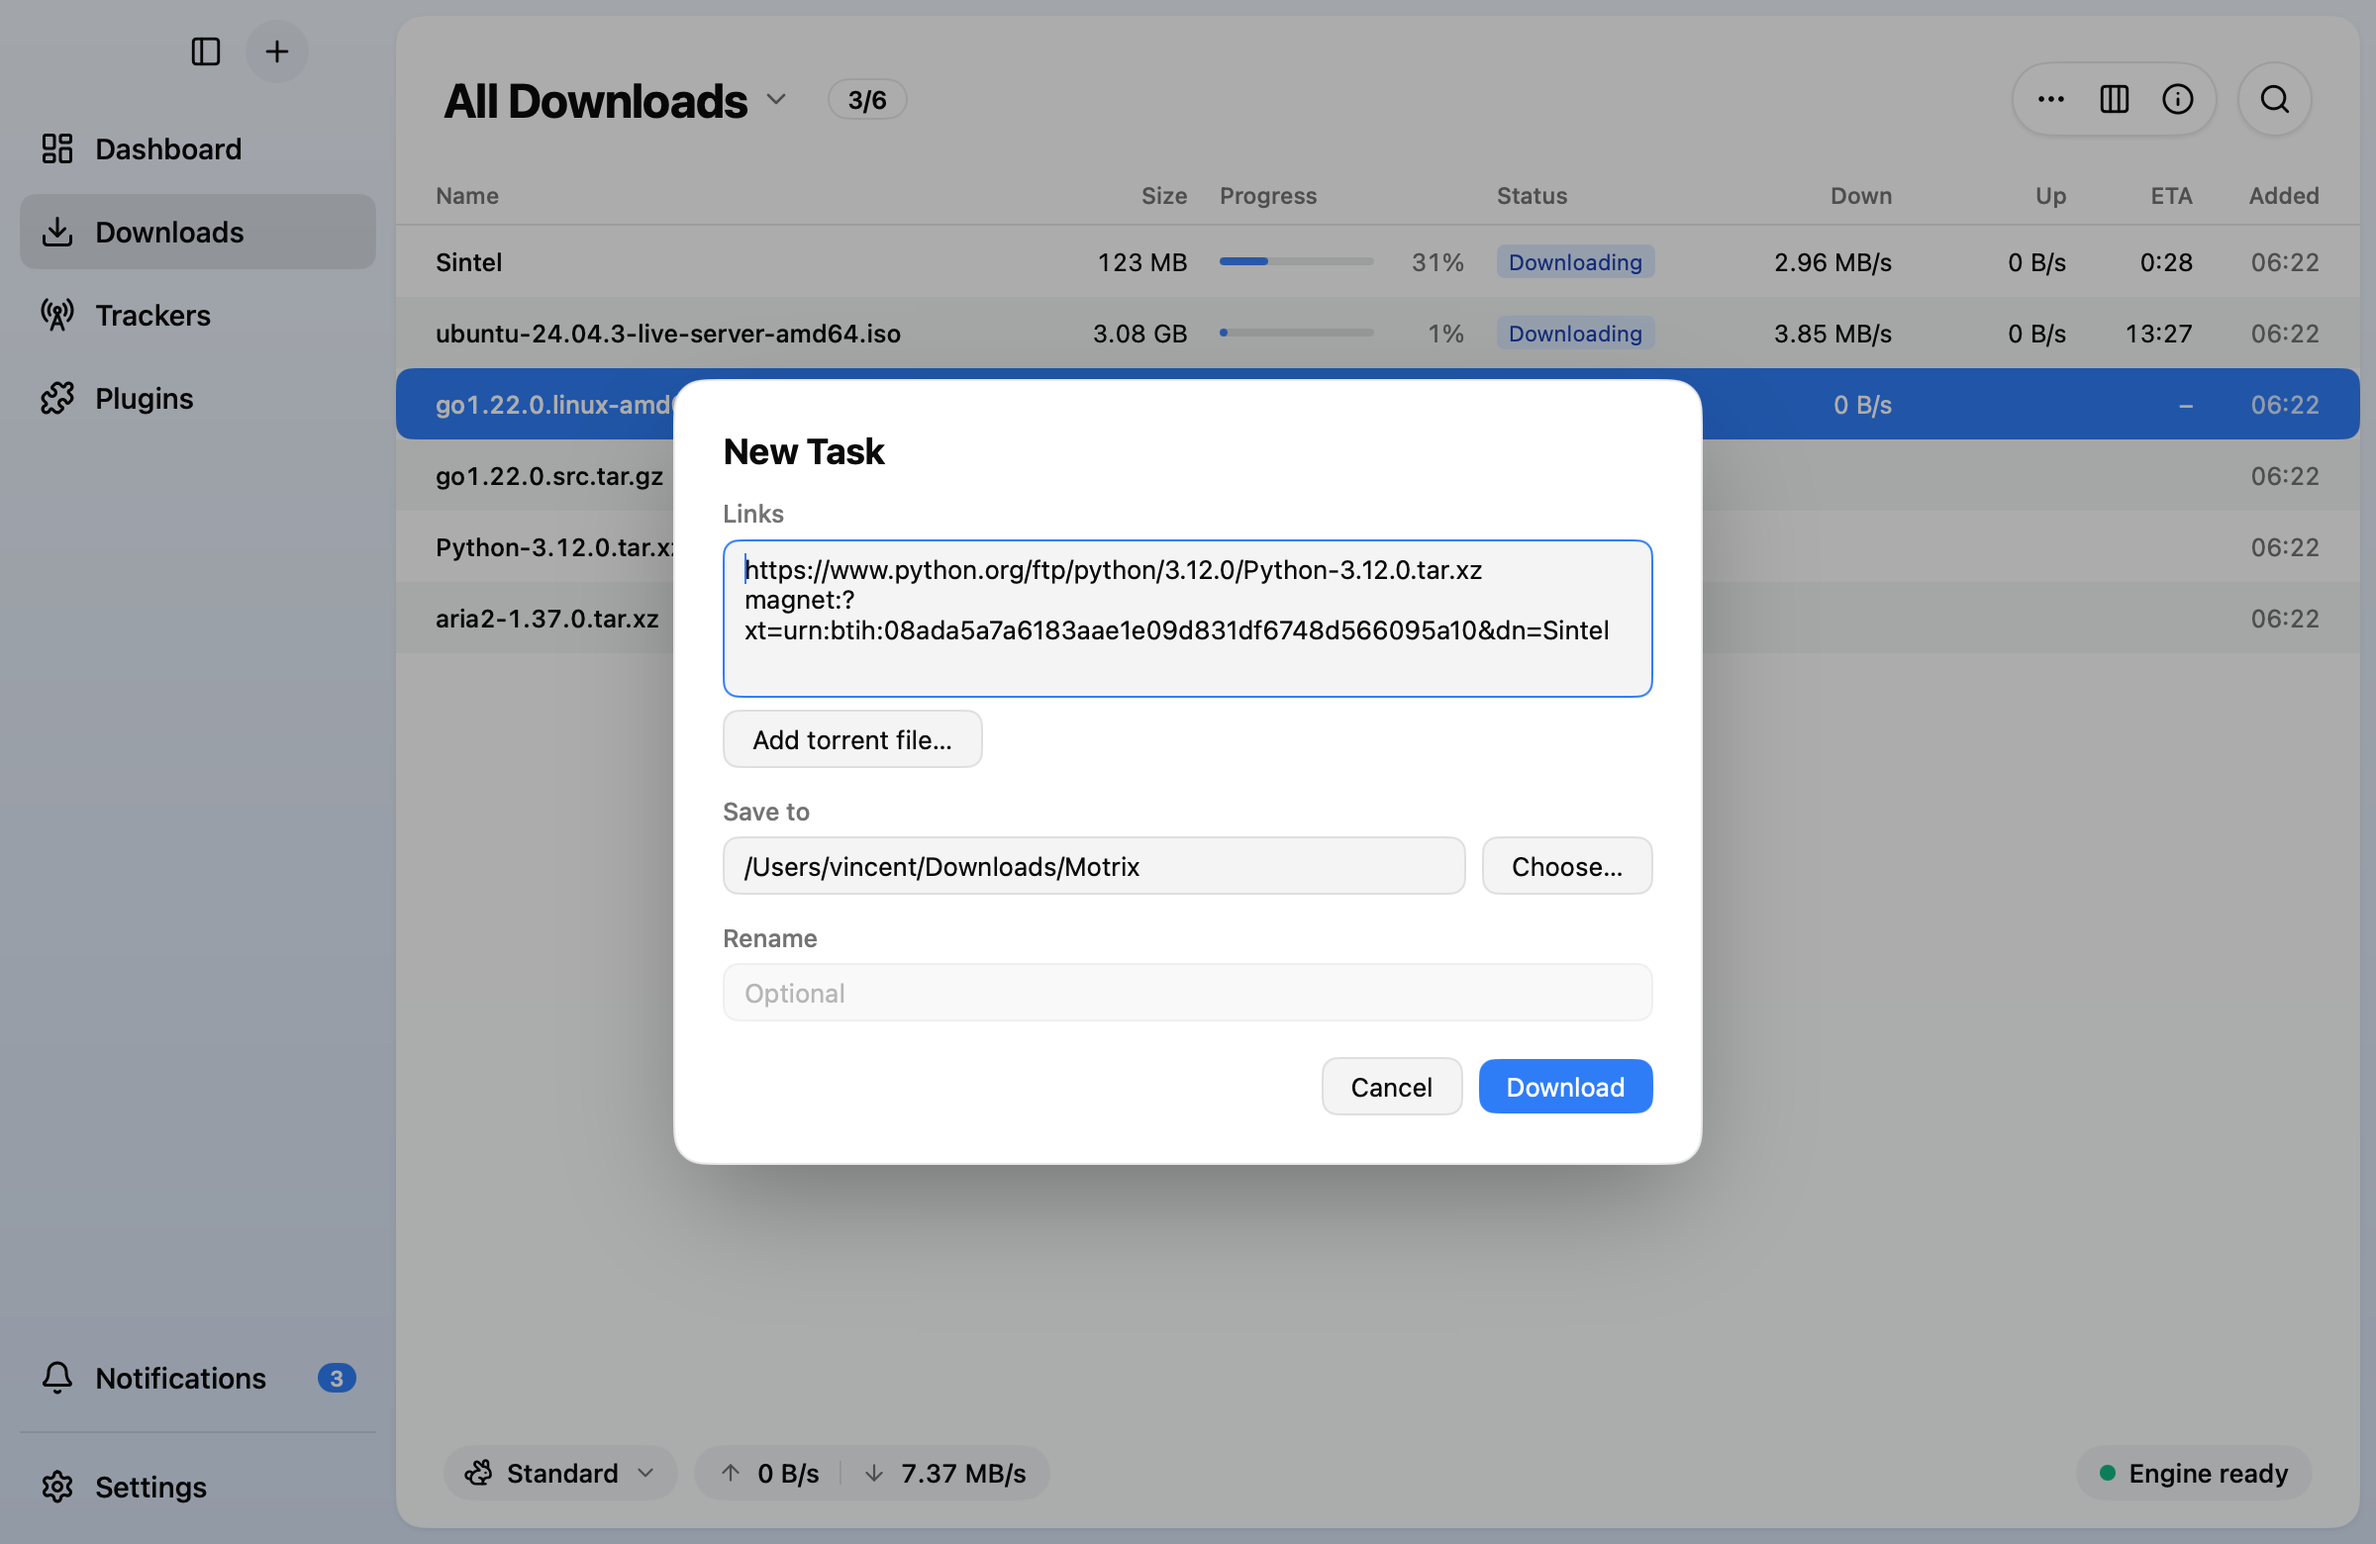
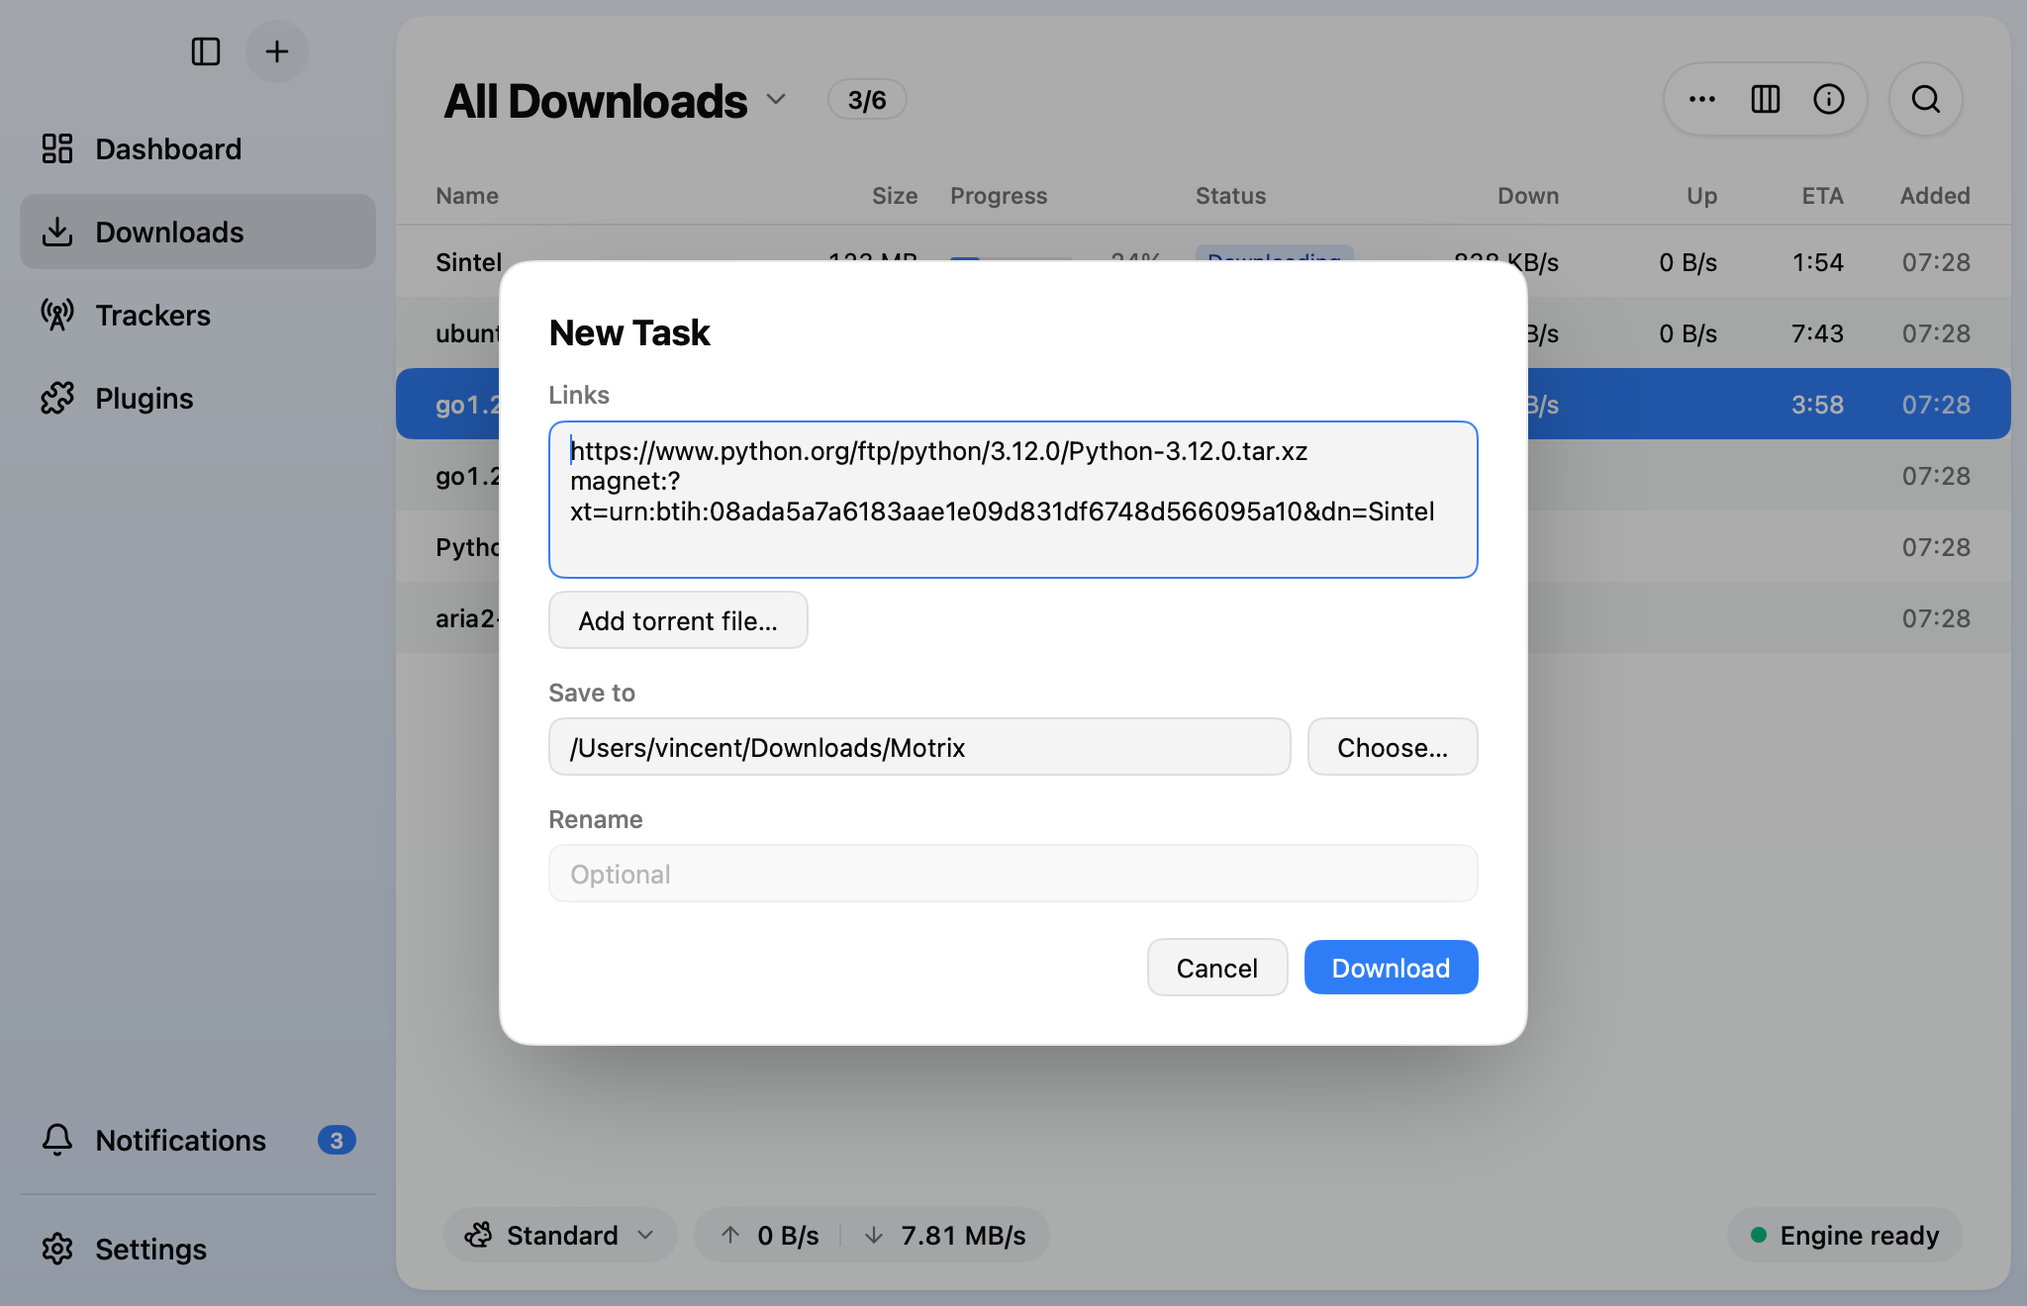
fix: open at 1024x660 and correct the About page
Open the window at the smaller default size, narrowing the columns of
the downloads list so that all of them still fit. Link the About page
to this project's own source, with Motrix and aria2 as acknowledgements.
Regenerate the screenshots at the new size.

diff --git a/settings_view.go b/settings_view.go
@@ -487,7 +487,7 @@ func (a *app) aboutSettings(c *ui.Context, p palette) {
 	value := func(s string) { ui.Text(c, s).FontSize(13).TextColor(p.muted).Selectable() }
 	ui.Column(c).Padding(20, 0).Gap(4).BorderWidth(0, 0, 1, 0).BorderColor(p.border).Children(func() {
 		ui.Text(c, "Motrix").FontSize(20).Bold()
-		ui.Text(c, T("A download manager, drawn natively.")).FontSize(13.5).TextColor(p.muted)
+		ui.Text(c, T("Motrix with a native interface in Go: no Electron, no webview.")).FontSize(13.5).TextColor(p.muted)
 	})
 	settingRow(c, p, T("Version"), "", func() {
 		// The version of mygo.json, which the build stamps into the app.
@@ -509,6 +509,10 @@ func (a *app) aboutSettings(c *ui.Context, p palette) {
 		ui.Link(c, "MyGo", "https://github.com/egoist/mygo").FontSize(13)
 	})
 	settingRow(c, p, T("Source code"), "", func() {
-		ui.Link(c, "github.com/agalwood/Motrix", "https://github.com/agalwood/Motrix").FontSize(13)
+		ui.Link(c, "github.com/missuo/motrix-mygo", "https://github.com/missuo/motrix-mygo").FontSize(13)
+	})
+	settingRow(c, p, T("Acknowledgements"), T("The design, the settings and the aria2 build are Motrix's."), func() {
+		ui.Link(c, "Motrix", "https://github.com/agalwood/Motrix").FontSize(13)
+		ui.Link(c, "aria2", "https://github.com/motrixapp/aria2").FontSize(13)
 	})
 }

diff --git a/i18n.go b/i18n.go
@@ -34,11 +34,13 @@ func T(s string) string {
 var zhCN = map[string]string{
 	"0 = unlimited.": "0 表示不限速。",
 	"0 = unlimited. Applies to new tasks and when seeding is restarted.": "0 表示不限，适用于新任务和重新开始做种的任务。",
-	"24-hour format (HH:mm)":              "24 小时制（HH:mm）",
-	"A download manager, drawn natively.": "原生绘制的下载管理器。",
-	"ACTIVE TASKS":                        "活动任务",
-	"ACTIVITY":                            "活动",
-	"About":                               "关于",
+	"24-hour format (HH:mm)": "24 小时制（HH:mm）",
+	"Acknowledgements":       "致谢",
+	"Motrix with a native interface in Go: no Electron, no webview.": "用 Go 原生界面重写的 Motrix：没有 Electron，也没有 webview。",
+	"The design, the settings and the aria2 build are Motrix's.":     "界面设计、设置项和 aria2 构建均来自 Motrix。",
+	"ACTIVE TASKS": "活动任务",
+	"ACTIVITY":     "活动",
+	"About":        "关于",
 	"Accept incoming peer connections on this port.": "用于接收其他用户的连接。",
 	"Add source":                          "添加来源",
 	"Add torrent file…":                   "添加种子文件…",

diff --git a/app_test.go b/app_test.go
@@ -211,7 +211,7 @@ func TestPauseResumeRemoveFromMenu(t *testing.T) {
 func TestSettings(t *testing.T) {
 	a := newTestApp(t)
 	a.paths.settings = filepath.Join(t.TempDir(), "settings.json")
-	tt := ui.NewTester(a.view, 1200, 780)
+	tt := ui.NewTester(a.view, 1024, 660)
 	click(t, tt, "Settings")
 	for _, section := range settingsSections {
 		if !tt.HasText(section.title) {
@@ -257,7 +257,7 @@ func TestSettings(t *testing.T) {
 	}
 
 	for section, text := range map[string]string{
-		"bittorrent": "BT listen port", "network": "DNS lookup", "advanced": "RPC port", "about": "aria2 1.37.0",
+		"bittorrent": "BT listen port", "network": "DNS lookup", "advanced": "RPC port", "about": "github.com/missuo/motrix-mygo",
 	} {
 		a.router.Push("/settings/" + section)
 		tt.Frame()

diff --git a/downloads.go b/downloads.go
@@ -44,11 +44,11 @@ type column struct {
 
 var taskColumns = []column{
 	{"name", "Name", 0, ui.Start},
-	{"size", "Size", 80, ui.End},
-	{"progress", "Progress", 140, ui.Start},
-	{"status", "Status", 128, ui.Start},
-	{"down", "Down", 88, ui.End},
-	{"up", "Up", 88, ui.End},
+	{"size", "Size", 72, ui.End},
+	{"progress", "Progress", 124, ui.Start},
+	{"status", "Status", 120, ui.Start},
+	{"down", "Down", 80, ui.End},
+	{"up", "Up", 80, ui.End},
 	{"eta", "ETA", 64, ui.End},
 	{"added", "Added", 64, ui.End},
 }
@@ -56,7 +56,7 @@ var taskColumns = []column{
 const (
 	// nameMinWidth is the least the column of names takes: a list narrower
 	// than its columns scrolls sideways.
-	nameMinWidth = 220
+	nameMinWidth = 180
 	rowPadding   = 12
 )
 

diff --git a/main.go b/main.go
@@ -73,13 +73,13 @@ func main() {
 		mygo.App.OnQuit(a.eng.Close)
 		a.win = mygo.NewWindow(mygo.WindowOptions{
 			Title: "Motrix",
-			// Wide enough for every column of the downloads and the four
-			// tiles of the dashboard, whole.
-			Width:     1200,
-			Height:    780,
+			// Just wide enough for every column of the downloads and the
+			// four tiles of the dashboard, whole.
+			Width:     1024,
+			Height:    660,
 			MinWidth:  960,
 			MinHeight: 620,
-			StateKey:  "main-2",
+			StateKey:  "main-3",
 			// The view draws the title bar, under the window controls.
 			// macOS keeps its traffic lights at the left; Windows and
 			// Linux draw their controls at the right, as high as the band.

diff --git a/live_test.go b/live_test.go
@@ -55,7 +55,7 @@ func TestLive(t *testing.T) {
 	waitEngine(t, a)
 	t.Logf("engine: aria2 %s", a.stats.Version)
 
-	tt := ui.NewTester(a.view, 1200, 780)
+	tt := ui.NewTester(a.view, 1024, 660)
 	tt.SetScale(2)
 	tt.SetTitleBar(ui.TitleBar{Height: 52, Left: 78})
 	shot := func(name string) {

diff --git a/AGENTS.md b/AGENTS.md
@@ -59,7 +59,7 @@ GOOS=windows go vet ./... && GOOS=linux go vet ./...
   `i18n.go`, taking Motrix's own wording from its `zh-CN.json` where it has
   the text.
 - **The default window shows everything whole.** After changing a page, look
-  at it at 1200×780 and at the minimum 960×620: no clipped or ellipsized
+  at it at 1024×660 and at the minimum 960×620: no clipped or ellipsized
   labels, numbers or columns.
 - **Windows and Linux put the window controls at the top right.** A page
   header pads its right with `trailingInset`, and its left with `chromeWidth`

diff --git a/CHANGELOG.md b/CHANGELOG.md
@@ -4,6 +4,13 @@ Each release has a section here, headed by its version. The release
 workflow publishes that section as the release notes, and refuses a tag
 whose version has none.
 
+## 0.0.4
+
+- The window opens smaller, at 1024×660, and the downloads list fits all of
+  its columns at that size.
+- The About page links to this project's source, and credits Motrix and aria2.
+- Install with Homebrew: `brew install --cask owo-network/brew/motrix`.
+
 ## 0.0.3
 
 - New app icon, drawn by `scripts/make-icon`.

diff --git a/README.md b/README.md
@@ -168,8 +168,8 @@ other machines stay signed ad hoc. Then release a version:
 
 ```sh
 # set "version" in mygo.json, add its section to CHANGELOG.md, commit, then
-git tag v0.0.3
-git push origin v0.0.3
+git tag v0.0.4
+git push origin v0.0.4
 ```
 
 The release notes are the version's section of `CHANGELOG.md`; a tag whose
